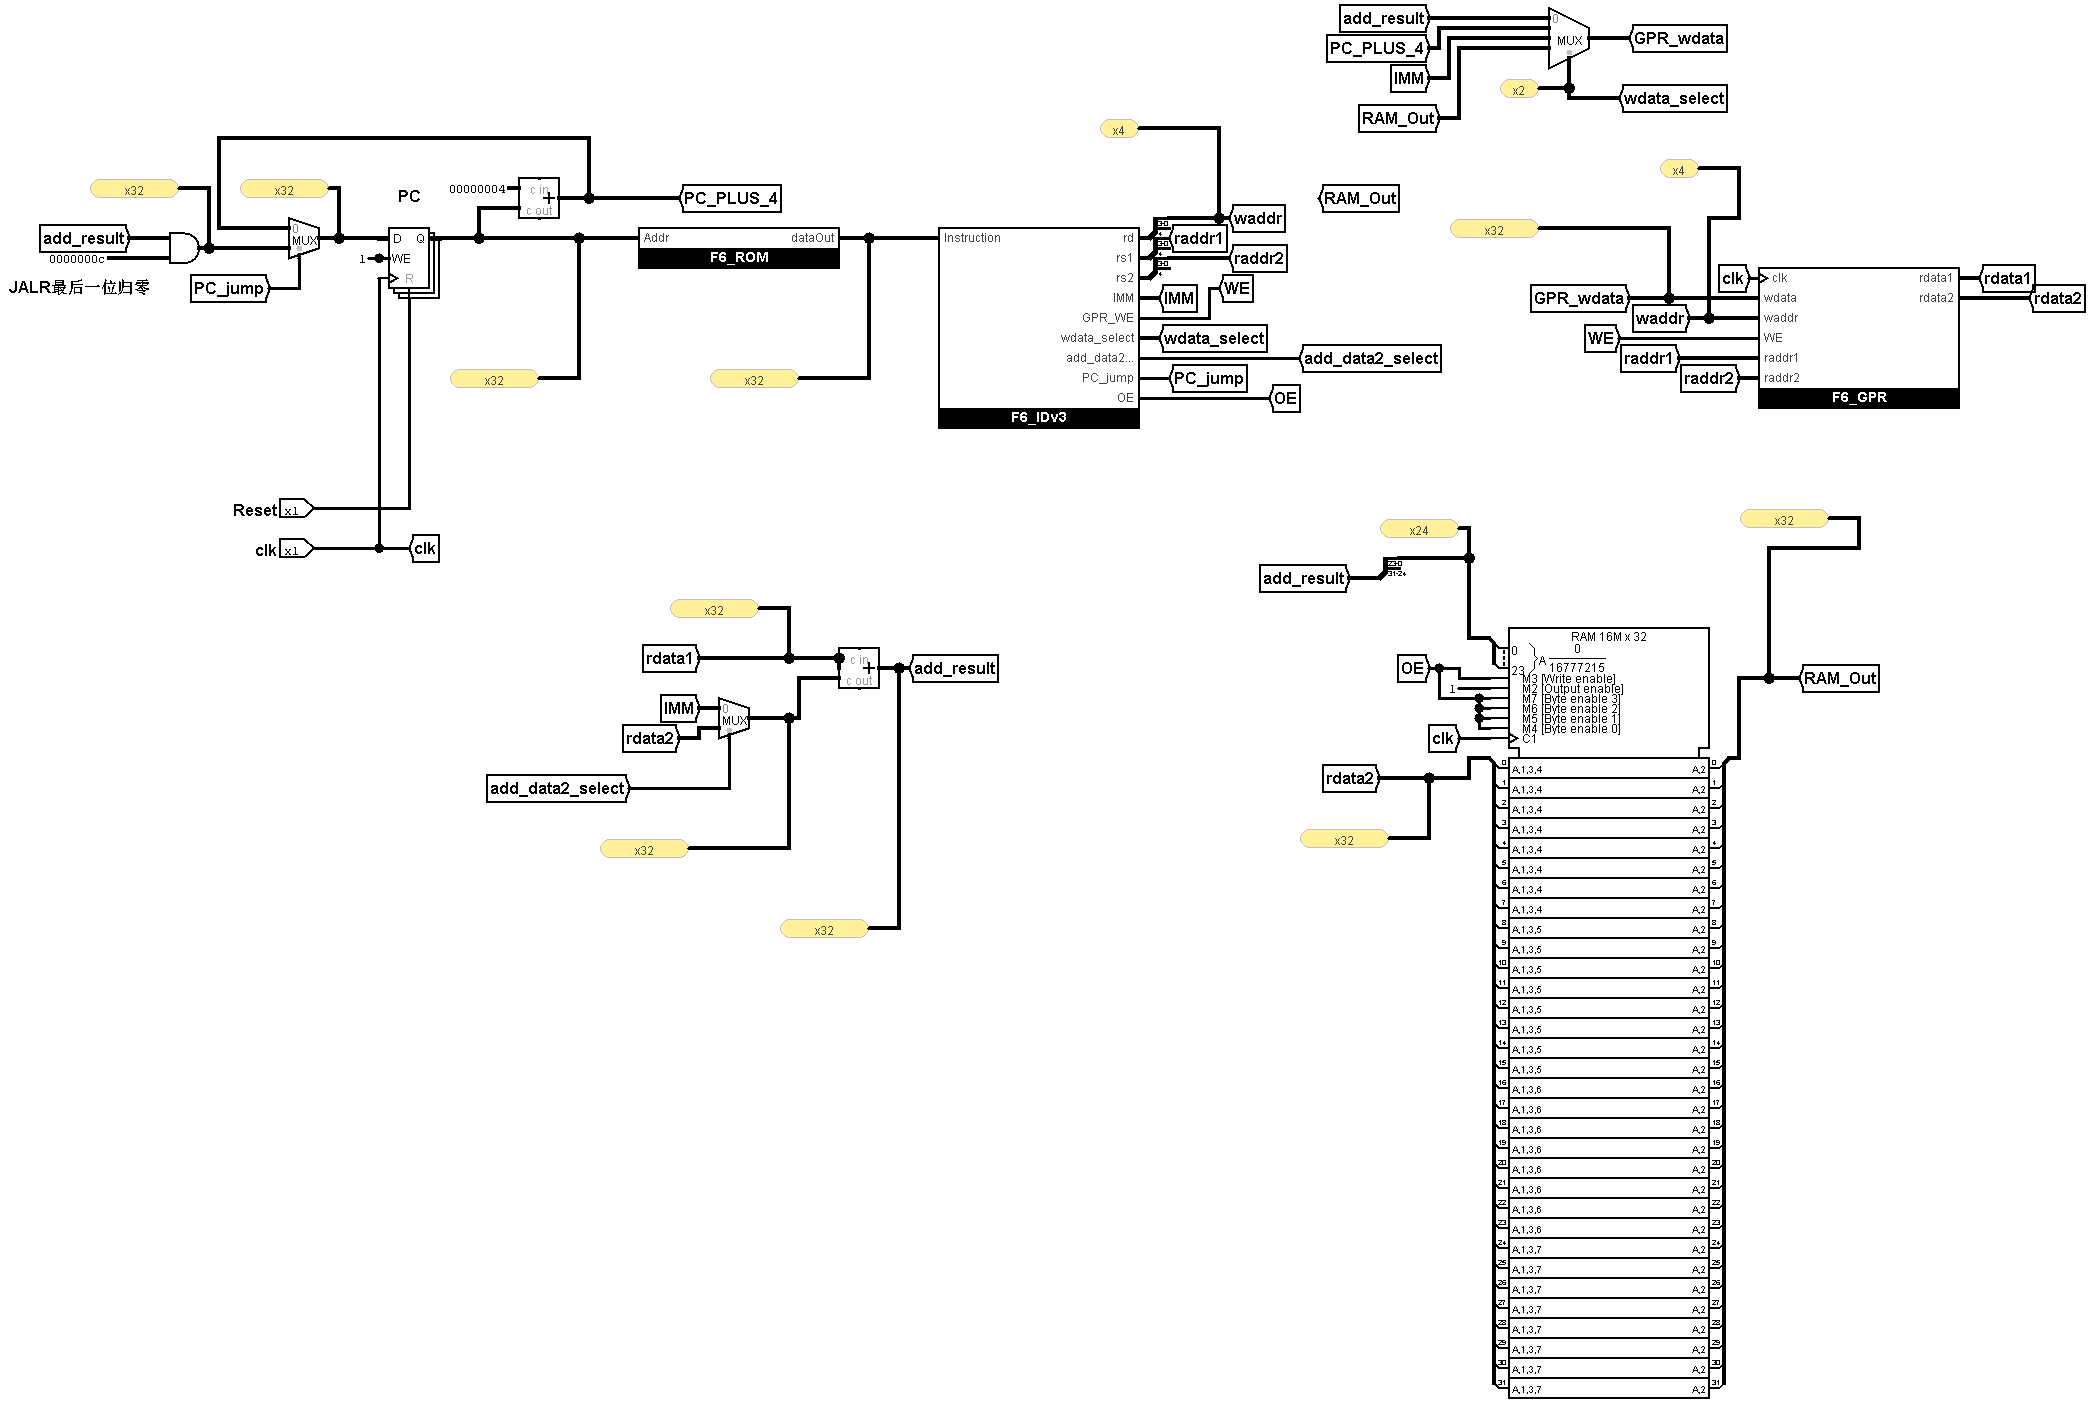
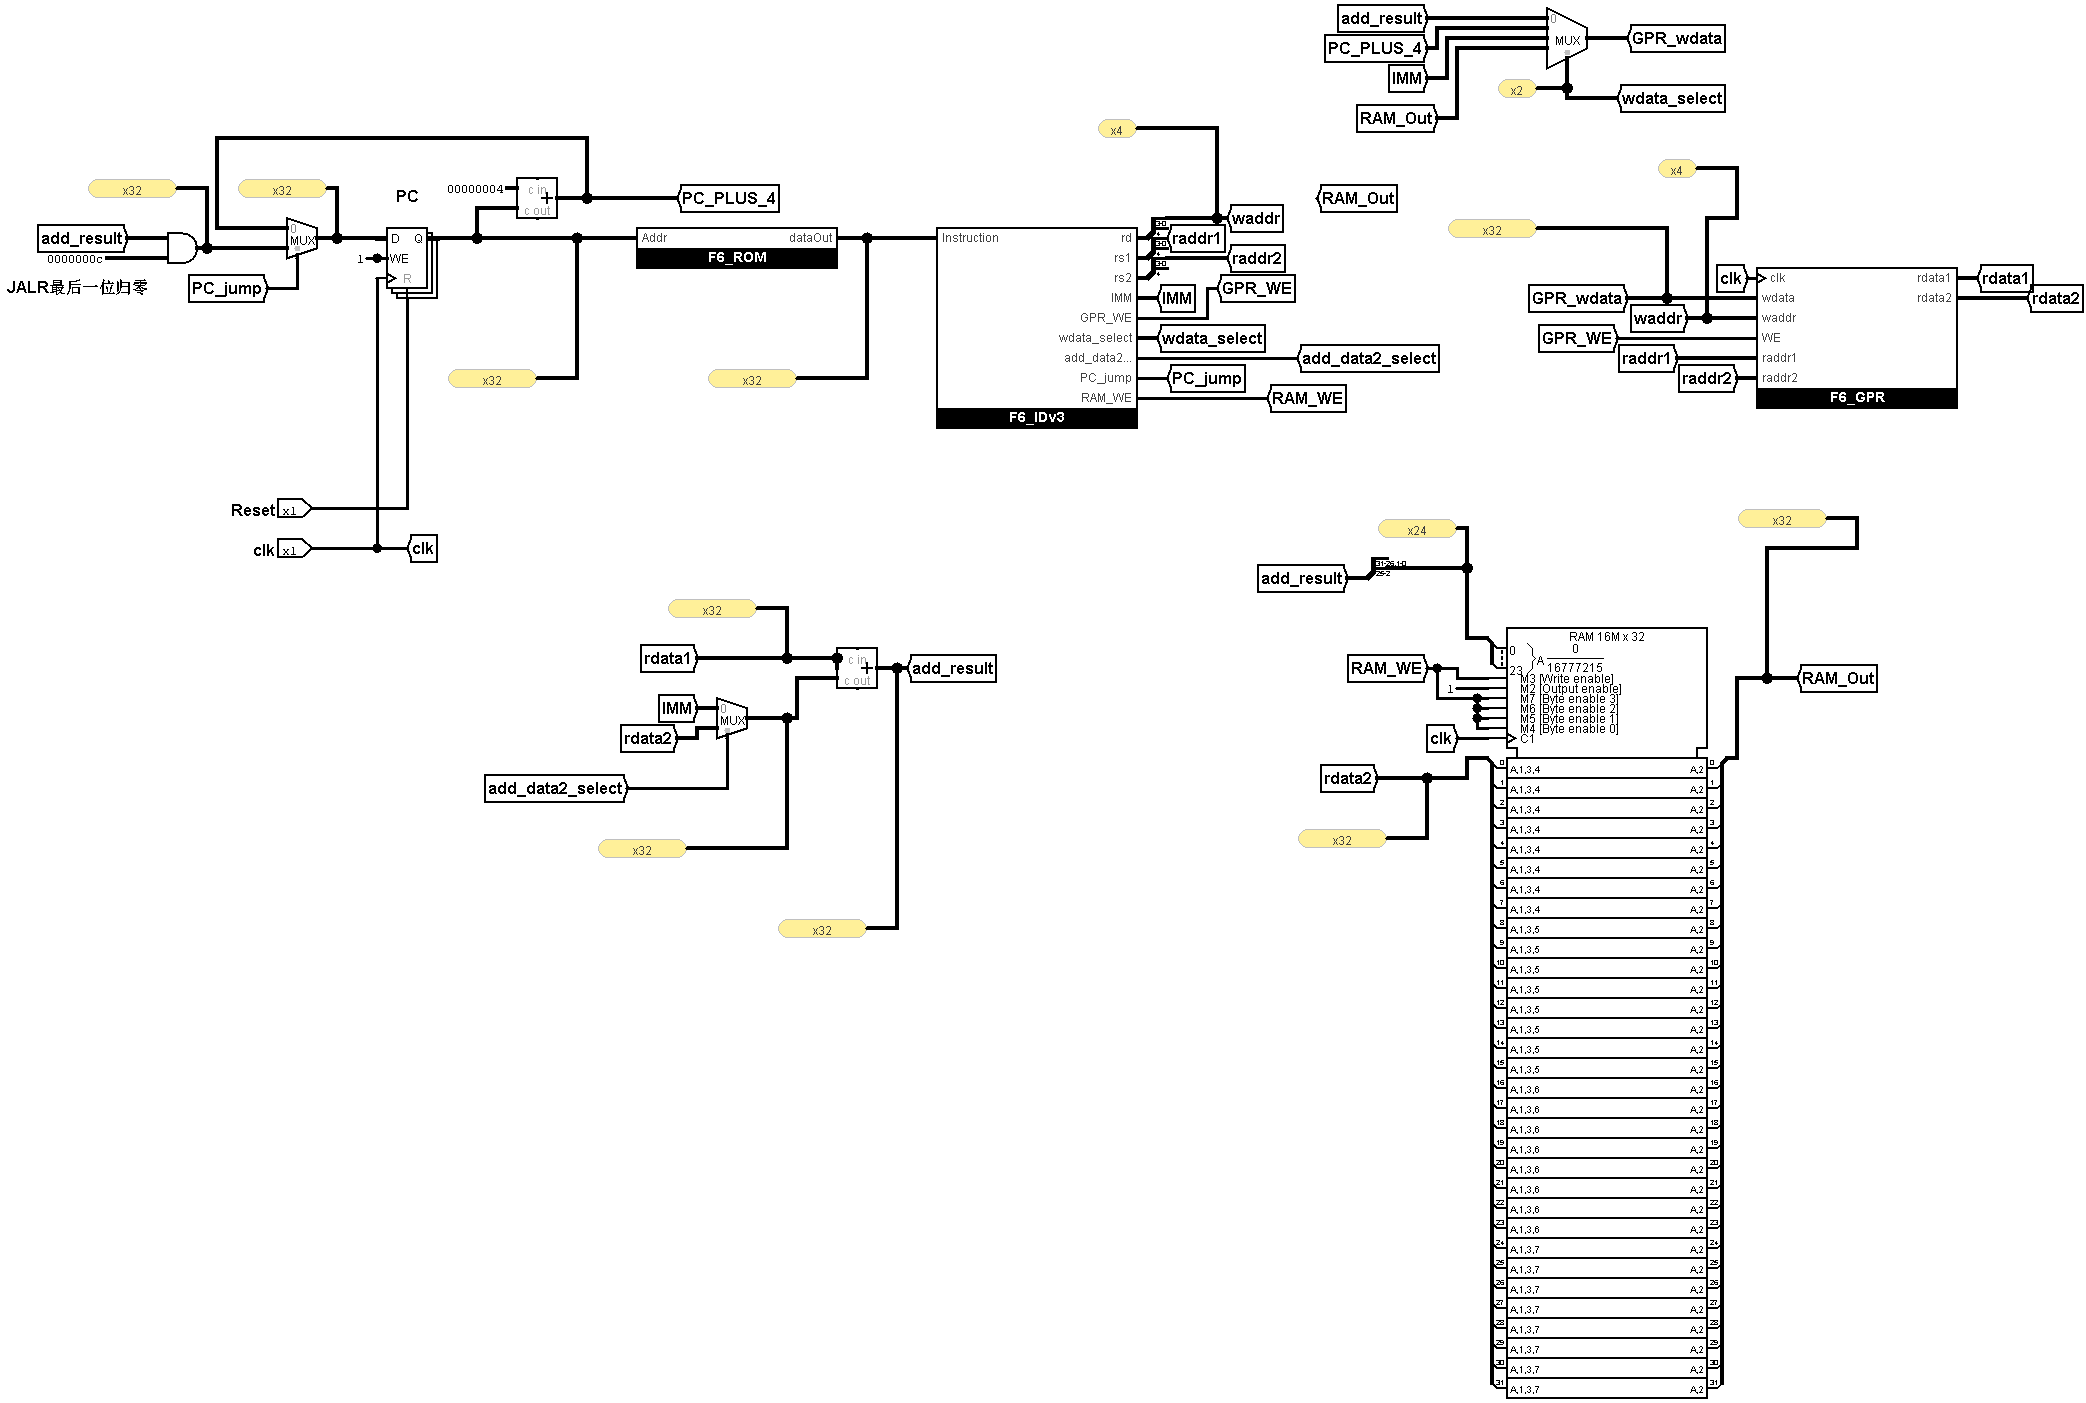
Site updated: 2026-02-08 03:07:42

diff --git a/2026/01/24/一生一芯F6/index.html b/2026/01/24/一生一芯F6/index.html
@@ -25,8 +25,11 @@
 <meta property="og:image" content="http://example.com/images/%E4%B8%80%E7%94%9F%E4%B8%80%E8%8A%AFF6/F6_IDv3.png">
 <meta property="og:image" content="http://example.com/images/%E4%B8%80%E7%94%9F%E4%B8%80%E8%8A%AFF6/F6_minirvCPUv3.png">
 <meta property="og:image" content="http://example.com/images/%E4%B8%80%E7%94%9F%E4%B8%80%E8%8A%AFF6/F6_miniCPUv3_test.png">
+<meta property="og:image" content="http://example.com/images/%E4%B8%80%E7%94%9F%E4%B8%80%E8%8A%AFF6/F6_IDv4.png">
+<meta property="og:image" content="http://example.com/images/%E4%B8%80%E7%94%9F%E4%B8%80%E8%8A%AFF6/F6_minirvCPUv4.png">
+<meta property="og:image" content="http://example.com/images/%E4%B8%80%E7%94%9F%E4%B8%80%E8%8A%AFF6/F6_miniCPUv4_test.png">
 <meta property="article:published_time" content="2026-01-24T10:30:51.000Z">
-<meta property="article:modified_time" content="2026-02-07T16:54:18.023Z">
+<meta property="article:modified_time" content="2026-02-07T19:06:16.191Z">
 <meta property="article:author" content="Nyuudoukumo">
 <meta name="twitter:card" content="summary">
 <meta name="twitter:image" content="http://example.com/images/%E4%B8%80%E7%94%9F%E4%B8%80%E8%8A%AFF6/F6_GPR.png">
@@ -247,7 +250,7 @@ mjx-container[display="true"] + br {
     
     
       <div id="toc">
-        <ol class="toc"><li class="toc-item toc-level-2"><a class="toc-link" href="#%E9%80%9A%E8%BF%87RTFM%E5%88%9D%E6%AD%A5%E4%BA%86%E8%A7%A3RISC-V%E6%8C%87%E4%BB%A4%E9%9B%86"><span class="toc-number">1.</span> <span class="toc-text">通过RTFM初步了解RISC-V指令集</span></a></li><li class="toc-item toc-level-2"><a class="toc-link" href="#%E5%AE%9E%E7%8E%B0%E4%B8%A4%E6%9D%A1%E6%8C%87%E4%BB%A4%E7%9A%84minirv%E5%A4%84%E7%90%86%E5%99%A8"><span class="toc-number">2.</span> <span class="toc-text">实现两条指令的minirv处理器</span></a></li><li class="toc-item toc-level-2"><a class="toc-link" href="#%E6%B5%8B%E8%AF%95addi%E6%8C%87%E4%BB%A4"><span class="toc-number">3.</span> <span class="toc-text">测试addi指令</span></a></li><li class="toc-item toc-level-2"><a class="toc-link" href="#%E5%AE%9E%E7%8E%B0%E5%AE%8C%E6%95%B4%E7%9A%84minirv%E5%A4%84%E7%90%86%E5%99%A8"><span class="toc-number">4.</span> <span class="toc-text">实现完整的minirv处理器</span></a></li><li class="toc-item toc-level-2"><a class="toc-link" href="#%E5%AE%9E%E7%8E%B0%E5%AE%8C%E6%95%B4%E7%9A%84minirv%E5%A4%84%E7%90%86%E5%99%A8-2"><span class="toc-number">5.</span> <span class="toc-text">实现完整的minirv处理器(2)</span></a></li></ol>
+        <ol class="toc"><li class="toc-item toc-level-2"><a class="toc-link" href="#%E9%80%9A%E8%BF%87RTFM%E5%88%9D%E6%AD%A5%E4%BA%86%E8%A7%A3RISC-V%E6%8C%87%E4%BB%A4%E9%9B%86"><span class="toc-number">1.</span> <span class="toc-text">通过RTFM初步了解RISC-V指令集</span></a></li><li class="toc-item toc-level-2"><a class="toc-link" href="#%E5%AE%9E%E7%8E%B0%E4%B8%A4%E6%9D%A1%E6%8C%87%E4%BB%A4%E7%9A%84minirv%E5%A4%84%E7%90%86%E5%99%A8"><span class="toc-number">2.</span> <span class="toc-text">实现两条指令的minirv处理器</span></a></li><li class="toc-item toc-level-2"><a class="toc-link" href="#%E6%B5%8B%E8%AF%95addi%E6%8C%87%E4%BB%A4"><span class="toc-number">3.</span> <span class="toc-text">测试addi指令</span></a></li><li class="toc-item toc-level-2"><a class="toc-link" href="#%E5%AE%9E%E7%8E%B0%E5%AE%8C%E6%95%B4%E7%9A%84minirv%E5%A4%84%E7%90%86%E5%99%A8"><span class="toc-number">4.</span> <span class="toc-text">实现完整的minirv处理器</span></a></li><li class="toc-item toc-level-2"><a class="toc-link" href="#%E5%AE%9E%E7%8E%B0%E5%AE%8C%E6%95%B4%E7%9A%84minirv%E5%A4%84%E7%90%86%E5%99%A8-2"><span class="toc-number">5.</span> <span class="toc-text">实现完整的minirv处理器(2)</span></a></li><li class="toc-item toc-level-2"><a class="toc-link" href="#%E5%AE%9E%E7%8E%B0%E5%AE%8C%E6%95%B4%E7%9A%84minirv%E5%A4%84%E7%90%86%E5%99%A8-3"><span class="toc-number">6.</span> <span class="toc-text">实现完整的minirv处理器(3)</span></a></li></ol>
       </div>
     
   </span>
@@ -385,13 +388,32 @@ mjx-container[display="true"] + br {
 <div class="callout-title-inner">题目</div>
 </div>
 <div class="callout-content"><p>实现<code>lw</code>和<code>sw</code>指令, 然后编写一些简单的指令序列放置到ROM中, 来初步检查你的实现是否正确. 特别地, 你可以用鼠标右键点击RAM组件, 然后通过<code>Edit Contents</code>在RAM中放置一些数据, 来帮助你测试访存指令的行为.</p>
-</div></div><p>增加lw和sw指令支持后的译码器和cpu结构图如下：<br>
+</div></div><p>因为yxys文档中说明了不考虑内存未对齐的情况，因此可以直接使用指令地址的高30位来作为访存地址。</p>
+<p>增加lw和sw指令支持后的译码器和cpu结构图如下：<br>
 <img src="/images/%E4%B8%80%E7%94%9F%E4%B8%80%E8%8A%AFF6/F6_IDv3.png" alt="F6_IDv3.png"><br>
 <img src="/images/%E4%B8%80%E7%94%9F%E4%B8%80%E8%8A%AFF6/F6_minirvCPUv3.png" alt="F6_minirvCPUv3.png"></p>
 <p>首先编辑RAM中地址0x1为0xaa，然后使用如下程序进行测试：</p>
-<figure class="highlight plaintext"><table><tr><td class="gutter"><pre><span class="line">1</span><br><span class="line">2</span><br></pre></td><td class="code"><pre><span class="line">0: 0x00102083 lw  x1, x0(0x1)  </span><br><span class="line">4: 0x0x102023 sw  x1, x0(0x0)</span><br></pre></td></tr></table></figure>
+<figure class="highlight plaintext"><table><tr><td class="gutter"><pre><span class="line">1</span><br><span class="line">2</span><br></pre></td><td class="code"><pre><span class="line">0: 0x00402083 lw  x1, 0x100(x0)  </span><br><span class="line">4: 0x00102023 sw  x1, 0x0(x0)</span><br></pre></td></tr></table></figure>
 <p>程序执行后，RAM中0x1和0x0都应该存储0xaa，如图所示:<br>
 <img src="/images/%E4%B8%80%E7%94%9F%E4%B8%80%E8%8A%AFF6/F6_miniCPUv3_test.png" alt="F6_miniCPUv3_test.png"></p>
+<h2 id="实现完整的minirv处理器-3">实现完整的minirv处理器(3)</h2>
+
+<div class="callout" data-callout="题目">
+<div class="callout-title">
+<div class="callout-title-icon">
+<svg xmlns="http://www.w3.org/2000/svg" width="24" height="24" viewBox="0 0 24 24" fill="none" stroke="currentColor" stroke-width="2" stroke-linecap="round" stroke-linejoin="round" class="lucide lucide-pencil"><path d="M17 3a2.85 2.83 0 1 1 4 4L7.5 20.5 2 22l1.5-5.5Z"></path><path d="m15 5 4 4"></path></svg>
+</div>
+<div class="callout-title-inner">实现<code>lbu</code>指令, 并通过一些指令序列来初步检查你的实现是否正确.</div>
+</div>
+<div class="callout-content"><p></p>
+</div></div><p>Hint: 你可以先在RAM中放置一个4字节的数据<code>0x12345678</code>, 并通过<code>lw</code>指令读出它(假设数据位于内存地址<code>a</code>), 确认读出结果为<code>0x12345678</code>. 然后通过若干条<code>lbu</code>指令分别从内存地址<code>a</code>, <code>a+1</code>, <code>a+2</code>, <code>a+3</code>中读出数据, 我们预期这些<code>lbu</code>指令分别读出<code>0x78</code>(对应地址<code>a</code>), <code>0x56</code>, <code>0x34</code>, <code>0x12</code>(对应地址<code>a+3</code>).</p>
+<p>增加lbu指令后的译码器和CPU结构如下:<br>
+<img src="/images/%E4%B8%80%E7%94%9F%E4%B8%80%E8%8A%AFF6/F6_IDv4.png" alt="F6_IDv4.png"><br>
+<img src="/images/%E4%B8%80%E7%94%9F%E4%B8%80%E8%8A%AFF6/F6_minirvCPUv4.png" alt="F6_minirvCPUv4.png"></p>
+<p>我们先将RAM中0x0地址设为0x12345678，然后使用lw指令将0x0的数据存入x1,然后将0x0、0x1、0x2、0x3的但单字节分别存到x2、x3、x4、x5，测试程序如下：</p>
+<figure class="highlight plaintext"><table><tr><td class="gutter"><pre><span class="line">1</span><br><span class="line">2</span><br><span class="line">3</span><br><span class="line">4</span><br><span class="line">5</span><br></pre></td><td class="code"><pre><span class="line">0: 0x00402083 lw  x1, 0x100(x0)  </span><br><span class="line">4: 0x00102023 sw  x2, 0x0(x0)</span><br><span class="line">8: 0x00104183 sw  x3, 0x1(x0)</span><br><span class="line">10:0x00204203 sw  x4, 0x2(x0)</span><br><span class="line">14:0x00304283 sw  x5, 0x4(x0)</span><br></pre></td></tr></table></figure>
+<p>测试结果如下，可以看到数据被正确的放入对应寄存器：<br>
+<img src="/images/%E4%B8%80%E7%94%9F%E4%B8%80%E8%8A%AFF6/F6_miniCPUv4_test.png" alt="F6_miniCPUv4_test.png"></p>
 
   </div>
 </article>
@@ -419,7 +441,7 @@ mjx-container[display="true"] + br {
     
     
       <div id="toc-footer" style="display: none">
-        <ol class="toc"><li class="toc-item toc-level-2"><a class="toc-link" href="#%E9%80%9A%E8%BF%87RTFM%E5%88%9D%E6%AD%A5%E4%BA%86%E8%A7%A3RISC-V%E6%8C%87%E4%BB%A4%E9%9B%86"><span class="toc-number">1.</span> <span class="toc-text">通过RTFM初步了解RISC-V指令集</span></a></li><li class="toc-item toc-level-2"><a class="toc-link" href="#%E5%AE%9E%E7%8E%B0%E4%B8%A4%E6%9D%A1%E6%8C%87%E4%BB%A4%E7%9A%84minirv%E5%A4%84%E7%90%86%E5%99%A8"><span class="toc-number">2.</span> <span class="toc-text">实现两条指令的minirv处理器</span></a></li><li class="toc-item toc-level-2"><a class="toc-link" href="#%E6%B5%8B%E8%AF%95addi%E6%8C%87%E4%BB%A4"><span class="toc-number">3.</span> <span class="toc-text">测试addi指令</span></a></li><li class="toc-item toc-level-2"><a class="toc-link" href="#%E5%AE%9E%E7%8E%B0%E5%AE%8C%E6%95%B4%E7%9A%84minirv%E5%A4%84%E7%90%86%E5%99%A8"><span class="toc-number">4.</span> <span class="toc-text">实现完整的minirv处理器</span></a></li><li class="toc-item toc-level-2"><a class="toc-link" href="#%E5%AE%9E%E7%8E%B0%E5%AE%8C%E6%95%B4%E7%9A%84minirv%E5%A4%84%E7%90%86%E5%99%A8-2"><span class="toc-number">5.</span> <span class="toc-text">实现完整的minirv处理器(2)</span></a></li></ol>
+        <ol class="toc"><li class="toc-item toc-level-2"><a class="toc-link" href="#%E9%80%9A%E8%BF%87RTFM%E5%88%9D%E6%AD%A5%E4%BA%86%E8%A7%A3RISC-V%E6%8C%87%E4%BB%A4%E9%9B%86"><span class="toc-number">1.</span> <span class="toc-text">通过RTFM初步了解RISC-V指令集</span></a></li><li class="toc-item toc-level-2"><a class="toc-link" href="#%E5%AE%9E%E7%8E%B0%E4%B8%A4%E6%9D%A1%E6%8C%87%E4%BB%A4%E7%9A%84minirv%E5%A4%84%E7%90%86%E5%99%A8"><span class="toc-number">2.</span> <span class="toc-text">实现两条指令的minirv处理器</span></a></li><li class="toc-item toc-level-2"><a class="toc-link" href="#%E6%B5%8B%E8%AF%95addi%E6%8C%87%E4%BB%A4"><span class="toc-number">3.</span> <span class="toc-text">测试addi指令</span></a></li><li class="toc-item toc-level-2"><a class="toc-link" href="#%E5%AE%9E%E7%8E%B0%E5%AE%8C%E6%95%B4%E7%9A%84minirv%E5%A4%84%E7%90%86%E5%99%A8"><span class="toc-number">4.</span> <span class="toc-text">实现完整的minirv处理器</span></a></li><li class="toc-item toc-level-2"><a class="toc-link" href="#%E5%AE%9E%E7%8E%B0%E5%AE%8C%E6%95%B4%E7%9A%84minirv%E5%A4%84%E7%90%86%E5%99%A8-2"><span class="toc-number">5.</span> <span class="toc-text">实现完整的minirv处理器(2)</span></a></li><li class="toc-item toc-level-2"><a class="toc-link" href="#%E5%AE%9E%E7%8E%B0%E5%AE%8C%E6%95%B4%E7%9A%84minirv%E5%A4%84%E7%90%86%E5%99%A8-3"><span class="toc-number">6.</span> <span class="toc-text">实现完整的minirv处理器(3)</span></a></li></ol>
       </div>
     
 
